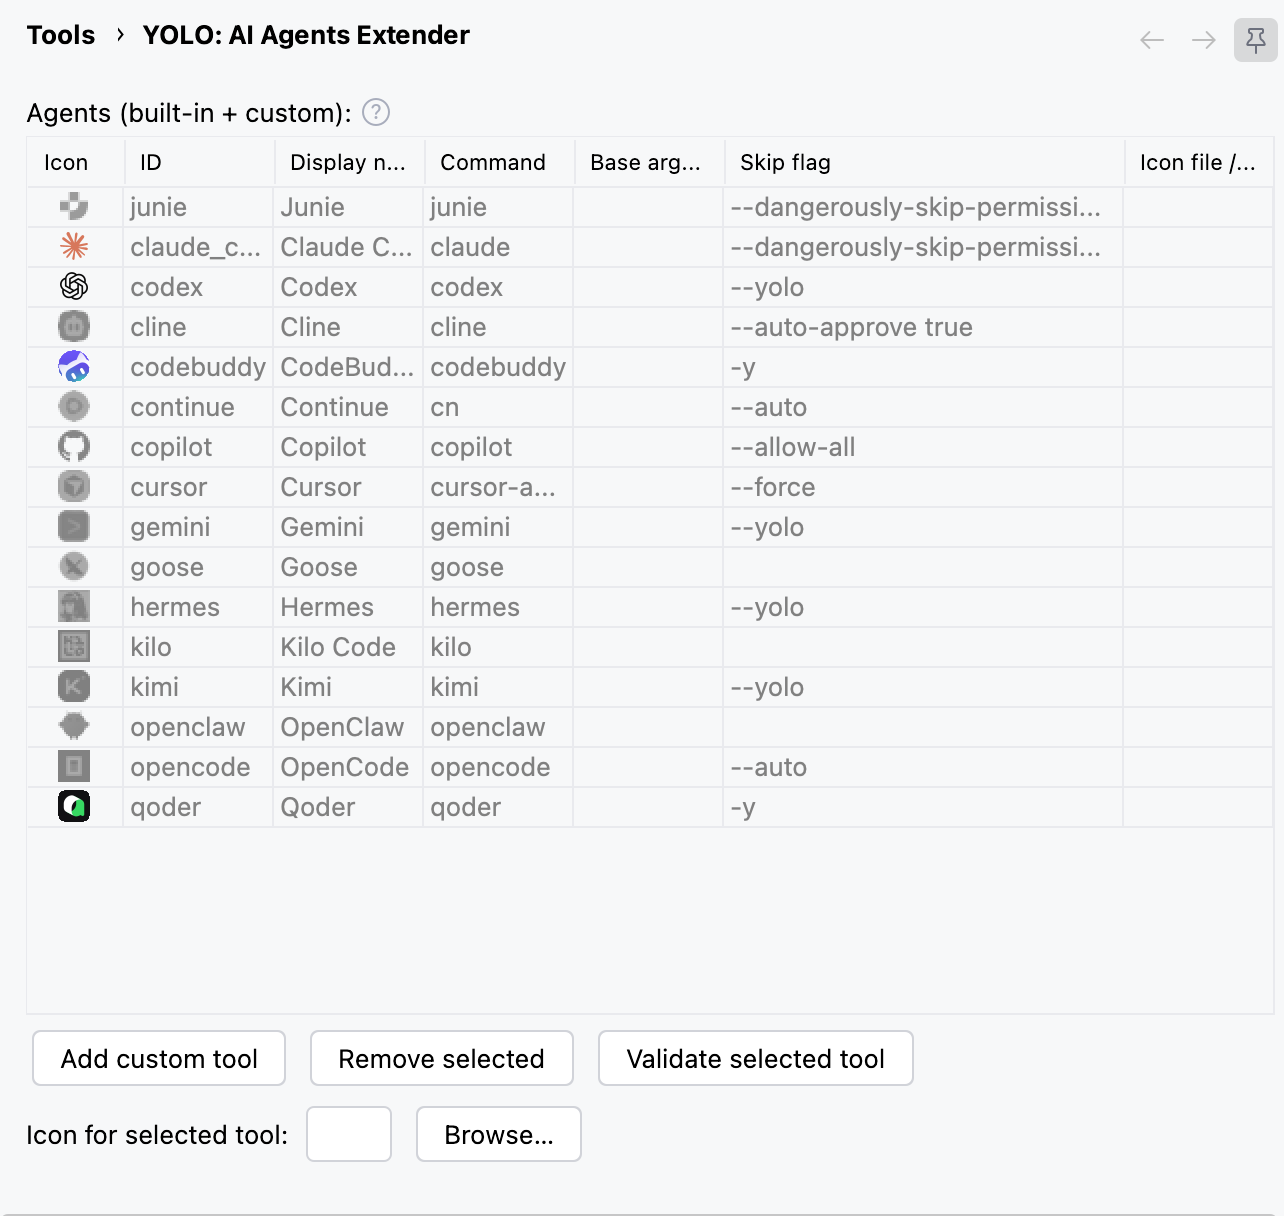
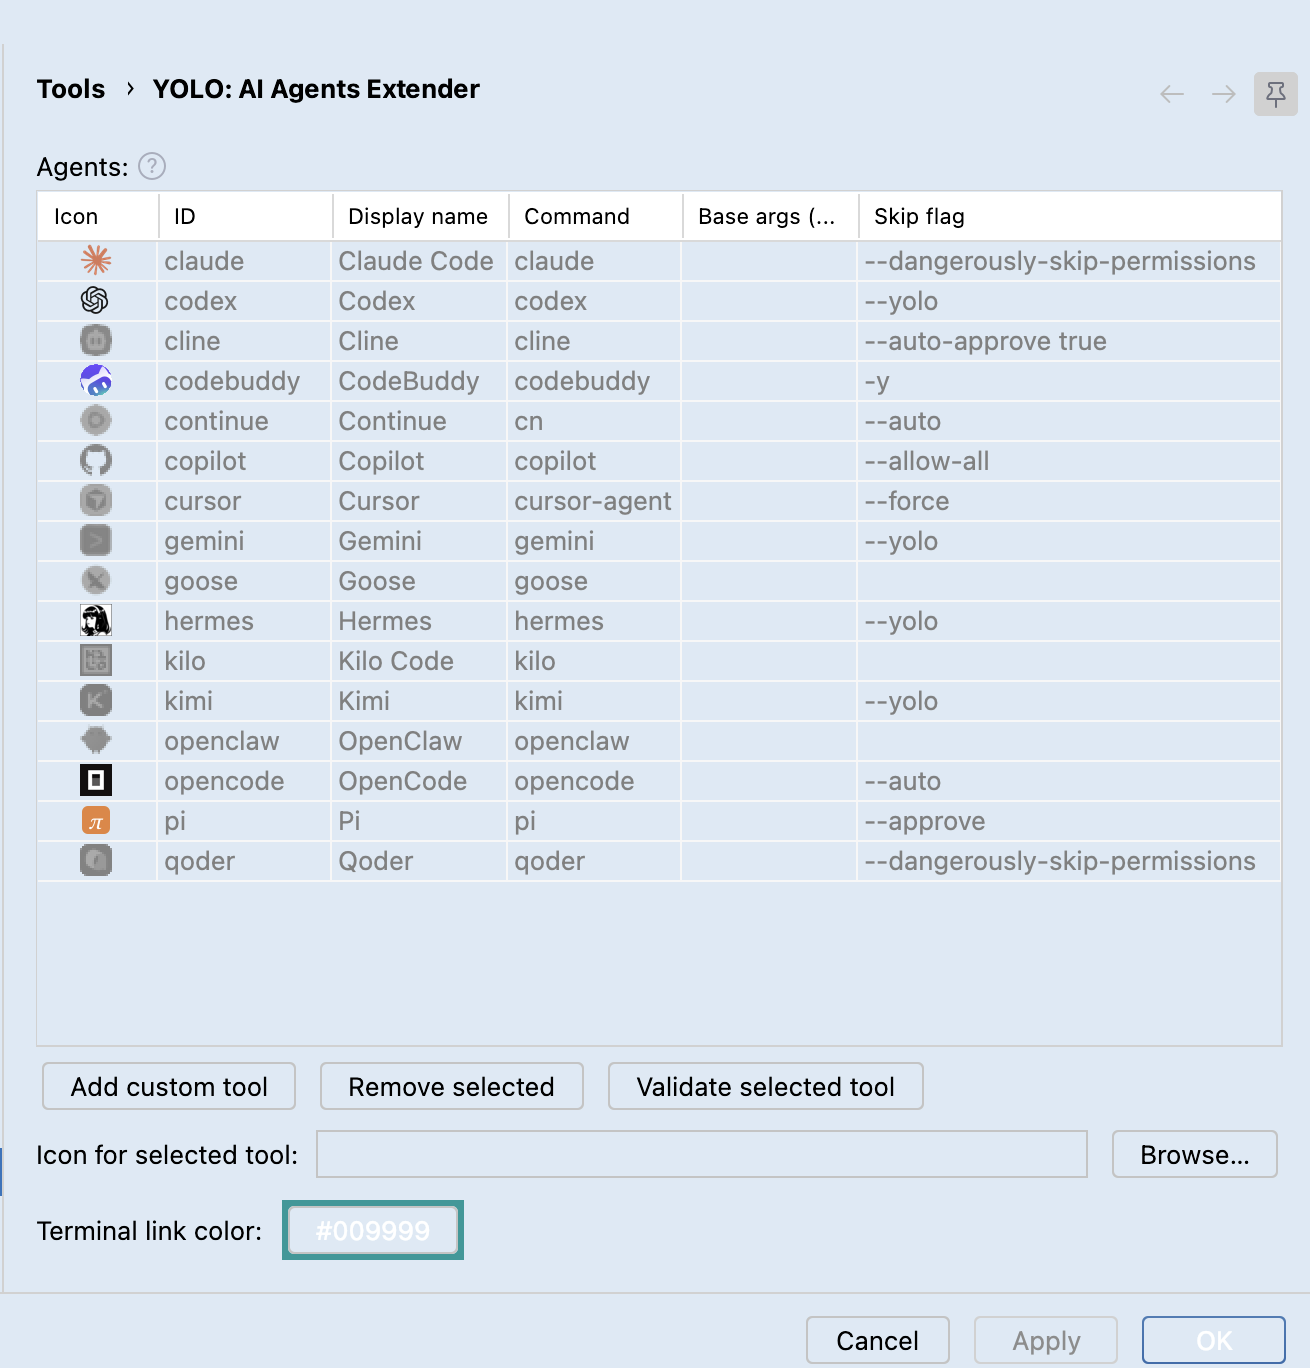
chore: commit in-progress docs, screenshots, and link-filter/test updates
User WIP staged ahead of the member-link fix: README and screenshot
updates, FileLinkFilter/TypeLinkFilter/YoloProjectTypes adjustments, and
FileLinkFilterTest/TypeLinkFilterTest. Excludes YoloNavigation.kt and
MemberLinkFilter.kt, which are committed separately as the fix.

diff --git a/src/main/kotlin/com/cnsharp/yolo/panel/TypeLinkFilter.kt b/src/main/kotlin/com/cnsharp/yolo/panel/TypeLinkFilter.kt
@@ -6,6 +6,7 @@ import com.jediterm.terminal.model.hyperlinks.HyperlinkFilter
 import com.jediterm.terminal.model.hyperlinks.LinkInfo
 import com.jediterm.terminal.model.hyperlinks.LinkResult
 import com.jediterm.terminal.model.hyperlinks.LinkResultItem
+import java.io.File
 
 /**
  * Makes type references printed by agents clickable in the embedded terminal.
@@ -23,13 +24,18 @@ import com.jediterm.terminal.model.hyperlinks.LinkResultItem
  * Resolution uses only public PSI APIs ([com.intellij.psi.JavaPsiFacade] / [com.intellij.psi.search.PsiShortNamesCache])
  * and is skipped while the index is in dumb mode, so it stays Marketplace-safe and never blocks the terminal.
  */
-class TypeLinkFilter(private val project: Project) : HyperlinkFilter {
+class TypeLinkFilter(
+    private val project: Project?,
+    private val typesProvider: (Project?) -> YoloProjectTypes.Snapshot = { p ->
+        if (p != null) YoloProjectTypes.snapshot(p) else YoloProjectTypes.Snapshot(emptySet(), emptySet())
+    },
+) : HyperlinkFilter {
 
     override fun apply(text: String): LinkResult? {
-        if (text.isBlank() || isDiffLine(text) || DumbService.isDumb(project)) return null
+        if (text.isBlank() || isDiffLine(text) || (project != null && DumbService.isDumb(project))) return null
         // Only link names that are real project types, so ordinary capitalized words and shortcut
         // notations (e.g. the `Ctrl` in `Ctrl/C`) are not painted blue.
-        val types = YoloProjectTypes.snapshot(project)
+        val types = typesProvider(project)
         val items = mutableListOf<LinkResultItem>()
         val matcher = TYPE_NAME_PATTERN.matcher(text)
         var guard = 0
@@ -41,20 +47,35 @@ class TypeLinkFilter(private val project: Project) : HyperlinkFilter {
                 simple != null -> types.containsSimple(simple)
                 else -> false
             }
-            if (!known) continue
-            // Resolution is deferred to click time so streaming output is never blocked by PSI index queries
-            // on the terminal emulator thread. The link navigates only if the name resolves to a real class.
-            val link = yoloHyperlink(project) {
-                val target = if (qualified != null) {
-                    resolveQualifiedClass(project, qualified)
-                } else if (simple != null) {
-                    resolveSimpleClass(project, simple)
-                } else {
-                    null
+            if (known) {
+                // Resolution is deferred to click time so streaming output is never blocked by PSI index queries
+                // on the terminal emulator thread. The link navigates only if the name resolves to a real class.
+                val link = yoloHyperlink(project) {
+                    if (project != null) {
+                        val target = if (qualified != null) {
+                            resolveQualifiedClass(project, qualified)
+                        } else if (simple != null) {
+                            resolveSimpleClass(project, simple)
+                        } else {
+                            null
+                        }
+                        if (target != null) openElementAt(project, target)
+                    }
                 }
-                if (target != null) openElementAt(project, target)
+                items.add(LinkResultItem(matcher.start(), matcher.end(), link))
+                continue
             }
-            items.add(LinkResultItem(matcher.start(), matcher.end(), link))
+            // File-name fallback: a bare source-file base name that is not a class (e.g. a Kotlin file facade
+            // like `YoloNavigation`). Linked to the source file so it is clickable too.
+            if (simple != null && types.containsFile(simple)) {
+                val link = yoloHyperlink(project) {
+                    if (project != null) {
+                        val vf = resolveSourceFile(project, simple)
+                        if (vf != null) openFileAt(project, File(vf.path), null, null)
+                    }
+                }
+                items.add(LinkResultItem(matcher.start(), matcher.end(), link))
+            }
         }
         return if (items.isEmpty()) null else LinkResult(items)
     }

diff --git a/src/test/kotlin/com/cnsharp/yolo/panel/TypeLinkFilterTest.kt b/src/test/kotlin/com/cnsharp/yolo/panel/TypeLinkFilterTest.kt
@@ -1,0 +1,80 @@
+package com.cnsharp.yolo.panel
+
+import org.junit.Assert.assertEquals
+import org.junit.Assert.assertTrue
+import org.junit.Test
+
+/**
+ * Exercises [TypeLinkFilter.apply] — the pure link-matching / gating logic — covering project-type links
+ * and the bare source-file-name fallback added for Kotlin file facades (e.g. `YoloNavigation`, a file of
+ * top-level functions rather than a class).
+ *
+ * The click handler (resolution) is intentionally NOT invoked, so these tests never touch the filesystem
+ * or PSI indices — they only assert *what* got linked. A fixed [YoloProjectTypes.Snapshot] is injected via
+ * [TypeLinkFilter.typesProvider] so the gating decision is deterministic and the test needs no live
+ * project (keeping `:test` offline, like [FileLinkFilterTest] / [StackTraceLinkFilterTest]).
+ */
+class TypeLinkFilterTest {
+
+    private val types = YoloProjectTypes.Snapshot(
+        simple = setOf("YoloToolWindowFactory", "AgentExtenderSettings"),
+        qualified = setOf("com.cnsharp.yolo.panel.TypeLinkFilter"),
+        files = setOf("YoloNavigation", "Main"),
+    )
+
+    private fun linked(text: String): List<String> {
+        val filter = TypeLinkFilter(null) { _ -> types }
+        return filter.apply(text)
+            ?.items
+            ?.map { text.substring(it.startOffset, it.endOffset) }
+            .orEmpty()
+    }
+
+    @Test
+    fun testFileFacadeIsLinked() {
+        // `YoloNavigation` is a Kotlin file of top-level functions (no class): the file-name fallback must
+        // link it even though it is absent from the class sets.
+        assertEquals(listOf("YoloNavigation"), linked("open YoloNavigation now"))
+    }
+
+    @Test
+    fun testProjectClassStillLinked() {
+        // A project class present in the simple-name set must still be linked (regression guard for the
+        // primary type-link path).
+        assertEquals(listOf("YoloToolWindowFactory"), linked("see YoloToolWindowFactory here"))
+    }
+
+    @Test
+    fun testQualifiedProjectTypeLinked() {
+        assertEquals(
+            listOf("com.cnsharp.yolo.panel.TypeLinkFilter"),
+            linked("defined in com.cnsharp.yolo.panel.TypeLinkFilter"),
+        )
+    }
+
+    @Test
+    fun testUnknownCapitalizedWordNotLinked() {
+        // Ordinary capitalized words that are not project types must stay plain text (noise gating).
+        assertTrue(linked("class FooBar created").isEmpty())
+    }
+
+    @Test
+    fun testJdkTypeNotLinked() {
+        // Ubiquitous JDK types are excluded so they are not painted blue everywhere.
+        assertTrue(linked("use String and List here").isEmpty())
+    }
+
+    @Test
+    fun testExternalQualifiedTypeNotLinked() {
+        // Library types (e.g. JediTerm's `HyperlinkFilter`) are excluded by design, even when fully qualified.
+        assertTrue(linked("implements com.jediterm.terminal.model.hyperlinks.HyperlinkFilter").isEmpty())
+    }
+
+    @Test
+    fun testTrailingExtensionNotLinkedByTypeFilter() {
+        // `YoloNavigation.kt` carries a recognized extension, so it is a *file* link (FileLinkFilter's job),
+        // not a type link — TypeLinkFilter must not also link the bare `YoloNavigation` portion, which would
+        // collide with the file link.
+        assertTrue(linked("edit YoloNavigation.kt please").isEmpty())
+    }
+}

diff --git a/src/test/kotlin/com/cnsharp/yolo/panel/FileLinkFilterTest.kt b/src/test/kotlin/com/cnsharp/yolo/panel/FileLinkFilterTest.kt
@@ -147,4 +147,46 @@ class FileLinkFilterTest {
         // A genuine `.m` (Objective-C) file must still link — the boundary only rejects *prefix* matches.
         assertEquals(listOf("src/main/Foo.m"), linked("see src/main/Foo.m here"))
     }
+
+    // ---- Supplementary cases: branches not covered above ----
+
+    @Test
+    fun testPathWithLineRange() {
+        // A `path:start-end` range (e.g. a diff hunk) links the whole reference and opens at the start line.
+        assertEquals(listOf("src/main/Foo.kt:12-20"), linked("changed src/main/Foo.kt:12-20"))
+    }
+
+    @Test
+    fun testQuotedPathWithLineAndColumn() {
+        // A quoted path with embedded spaces may carry `:line:column` outside the closing quote. The path
+        // and the `:line:col` are two separate (quote-excluding) links; the closing quote is never clickable.
+        assertEquals(
+            listOf("/path with space/Bar.kt", ":42:13"),
+            linked("""open "/path with space/Bar.kt":42:13 now"""),
+        )
+    }
+
+    @Test
+    fun testQuotedPathTruncatedNotLinked() {
+        // A quoted path the agent abbreviated with `…` mid-way is incomplete and must not link (the
+        // `raw.contains('…')` guard in the quoted loop).
+        assertTrue(linked("""open "/Users/me/Proj…name/Bar.kt" end""").isEmpty())
+    }
+
+    @Test
+    fun testWindowsPathWithLineAndColumn() {
+        assertEquals(listOf("""C:\foo\Bar.kt:42:13"""), linked("""error at C:\foo\Bar.kt:42:13"""))
+    }
+
+    @Test
+    fun testHomePathWithLine() {
+        // A `~`-prefixed (home-relative) path with a line reference must link.
+        assertEquals(listOf("~/foo/Bar.kt:3"), linked("edit ~/foo/Bar.kt:3 please"))
+    }
+
+    @Test
+    fun testMultiplePathsInOneLine() {
+        // Two independent references on one line each become their own link.
+        assertEquals(listOf("src/a/Foo.kt", "src/b/Bar.java"), linked("edit src/a/Foo.kt and src/b/Bar.java"))
+    }
 }

diff --git a/src/main/kotlin/com/cnsharp/yolo/panel/YoloProjectTypes.kt b/src/main/kotlin/com/cnsharp/yolo/panel/YoloProjectTypes.kt
@@ -32,9 +32,14 @@ import java.util.concurrent.atomic.AtomicBoolean
 object YoloProjectTypes {
 
     /** Immutable view of the project's type names; cheap to hold and query within a single line scan. */
-    data class Snapshot(val simple: Set<String>, val qualified: Set<String>) {
+    data class Snapshot(
+        val simple: Set<String>,
+        val qualified: Set<String>,
+        val files: Set<String> = emptySet(),
+    ) {
         fun containsSimple(name: String): Boolean = name in simple
         fun containsQualified(name: String): Boolean = name in qualified
+        fun containsFile(name: String): Boolean = name in files
     }
 
     private class Cache {
@@ -94,6 +99,17 @@ object YoloProjectTypes {
                 cls.qualifiedName?.let { qualified.add(it) }
             }
         }
-        return Snapshot(simple, qualified)
+        // Source-file base names (without extension), so Kotlin file facades — files of top-level functions
+        // with no enclosing class (e.g. `YoloNavigation.kt`) — are still recognized as project references and
+        // can be linked to the file. Restricted to content roots, matching the class collection above.
+        val files = mutableSetOf<String>()
+        inProject.iterateContent { vf ->
+            if (!vf.isDirectory) {
+                val ext = vf.extension
+                if (ext == "kt" || ext == "java") vf.nameWithoutExtension?.let { files.add(it) }
+            }
+            true
+        }
+        return Snapshot(simple, qualified, files)
     }
 }

diff --git a/src/main/kotlin/com/cnsharp/yolo/panel/FileLinkFilter.kt b/src/main/kotlin/com/cnsharp/yolo/panel/FileLinkFilter.kt
@@ -57,9 +57,14 @@ class FileLinkFilter(
                 val p = project ?: return@yoloHyperlink
                 openFileAt(p, file, line, column)
             }
-            // Span the path (group 2) only — `q.end()` includes the closing quote, which must not be
-            // clickable. A `:line` reference (outside the closing quote) is still included.
-            items.add(LinkResultItem(q.start(2), q.end() - 1, link))
+            // Span the path (group 2) only — the quotes must not be clickable. When a `:line[:col]` follows
+            // the closing quote (group 3), add it as a *second* link so the whole reference is clickable
+            // without ever painting the quotes blue. A single span cannot skip the quote in the middle, so
+            // the previous `q.end() - 1` trick wrongly dropped the last column digit on `":line:col"`.
+            items.add(LinkResultItem(q.start(2), q.end(2), link))
+            if (q.group(3) != null) {
+                items.add(LinkResultItem(q.start(3) - 1, q.end(), link))
+            }
             quotedSpans.add(q.start() to q.end())
         }
 

diff --git a/README.md b/README.md
@@ -8,7 +8,6 @@ and URLs all turn into navigation links — so you can jump from the agent's out
 It is built entirely on **public IntelliJ APIs**, so it passes JetBrains Marketplace verification and can be published
 like any normal plugin. It does **not** hook into or depend on IDEA's Terminal plugin.
 
-![yolo-panel.png](screenshots/yolo-panel.png)
 
 ---
 
@@ -16,12 +15,13 @@ like any normal plugin. It does **not** hook into or depend on IDEA's Terminal p
 
 ### The YOLO panel
 
+![yolo-panel.png](screenshots/yolo-panel.png)
+
 A tool window (right side, **y** icon) that replicates the Terminal's **AI Agents** experience without touching
 any internal Terminal API:
 
 - Lists your **installed** agents — promoted agents (Claude Code, Codex, CodeBuddy, …) plus your own custom tools.
   Agents that aren't detected on `PATH` simply aren't shown, so the list stays relevant to this machine.
-- **Claude Code** and **Codex** are pinned at the top of the list.
 - Each row shows the agent's icon, name, and its configured skip flag.
 - The dropdown loads **instantly from a cached install scan** — the detection done on a previous run is reused, and a
   background re-scan refreshes the list only when the set of installed agents actually changes.
@@ -29,11 +29,13 @@ any internal Terminal API:
 
 ### YOLO mode
 
+![yolo-mode.png](screenshots/yolo-mode.png)
+
 A **YOLO (Skip Permissions)** toggle in the panel header. Turn it on and the next launch starts the agent with its
 permission-bypass flag appended — `--dangerously-skip-permissions` for Claude Code, `--yolo` for Codex, `-y` for
 CodeBuddy, and so on.
 
-The flag is **per agent** and fully configurable. The plugin knows the correct flag for 17 common agents and
+The flag is **per agent** and fully configurable. The plugin knows the correct flag for 16 common agents and
 pre-fills it, but every value is editable and nothing is hardcoded at runtime. A few agents (Goose) bypass via an
 environment variable instead of a flag; those are handled too.
 
@@ -116,7 +118,9 @@ localIdeaPath=/Applications/IntelliJ IDEA.app
 
 ## Installation
 
-**From the Marketplace** — search for **YOLO: AI Agents Extender** in *Settings | Plugins* and install.
+**From the Marketplace** — search for **YOLO** in *Settings | Plugins* and install.
+
+or from website: [https://plugins.jetbrains.com/plugin/33442-yolo-ai-agents-extender/](https://plugins.jetbrains.com/plugin/33442-yolo-ai-agents-extender/)
 
 **From disk** — build or download the `yolo-<version>.zip` (see [Build](#build)), then
 `Settings | Plugins | ⚙ | Install Plugin from Disk…` and pick the zip. Restart when prompted.
@@ -139,7 +143,6 @@ Everything lives in one table. Each row is an agent, and each row carries its ow
 | Command | Executable name — must resolve on `PATH` |
 | Base args | Arguments always passed, space separated |
 | Skip flag | The permission-bypass argument, appended when the YOLO toggle is on |
-| Icon file / URL | A local image or `http(s)` URL — custom tools only |
 
 Rows come in two kinds, listed in descending priority:
 
